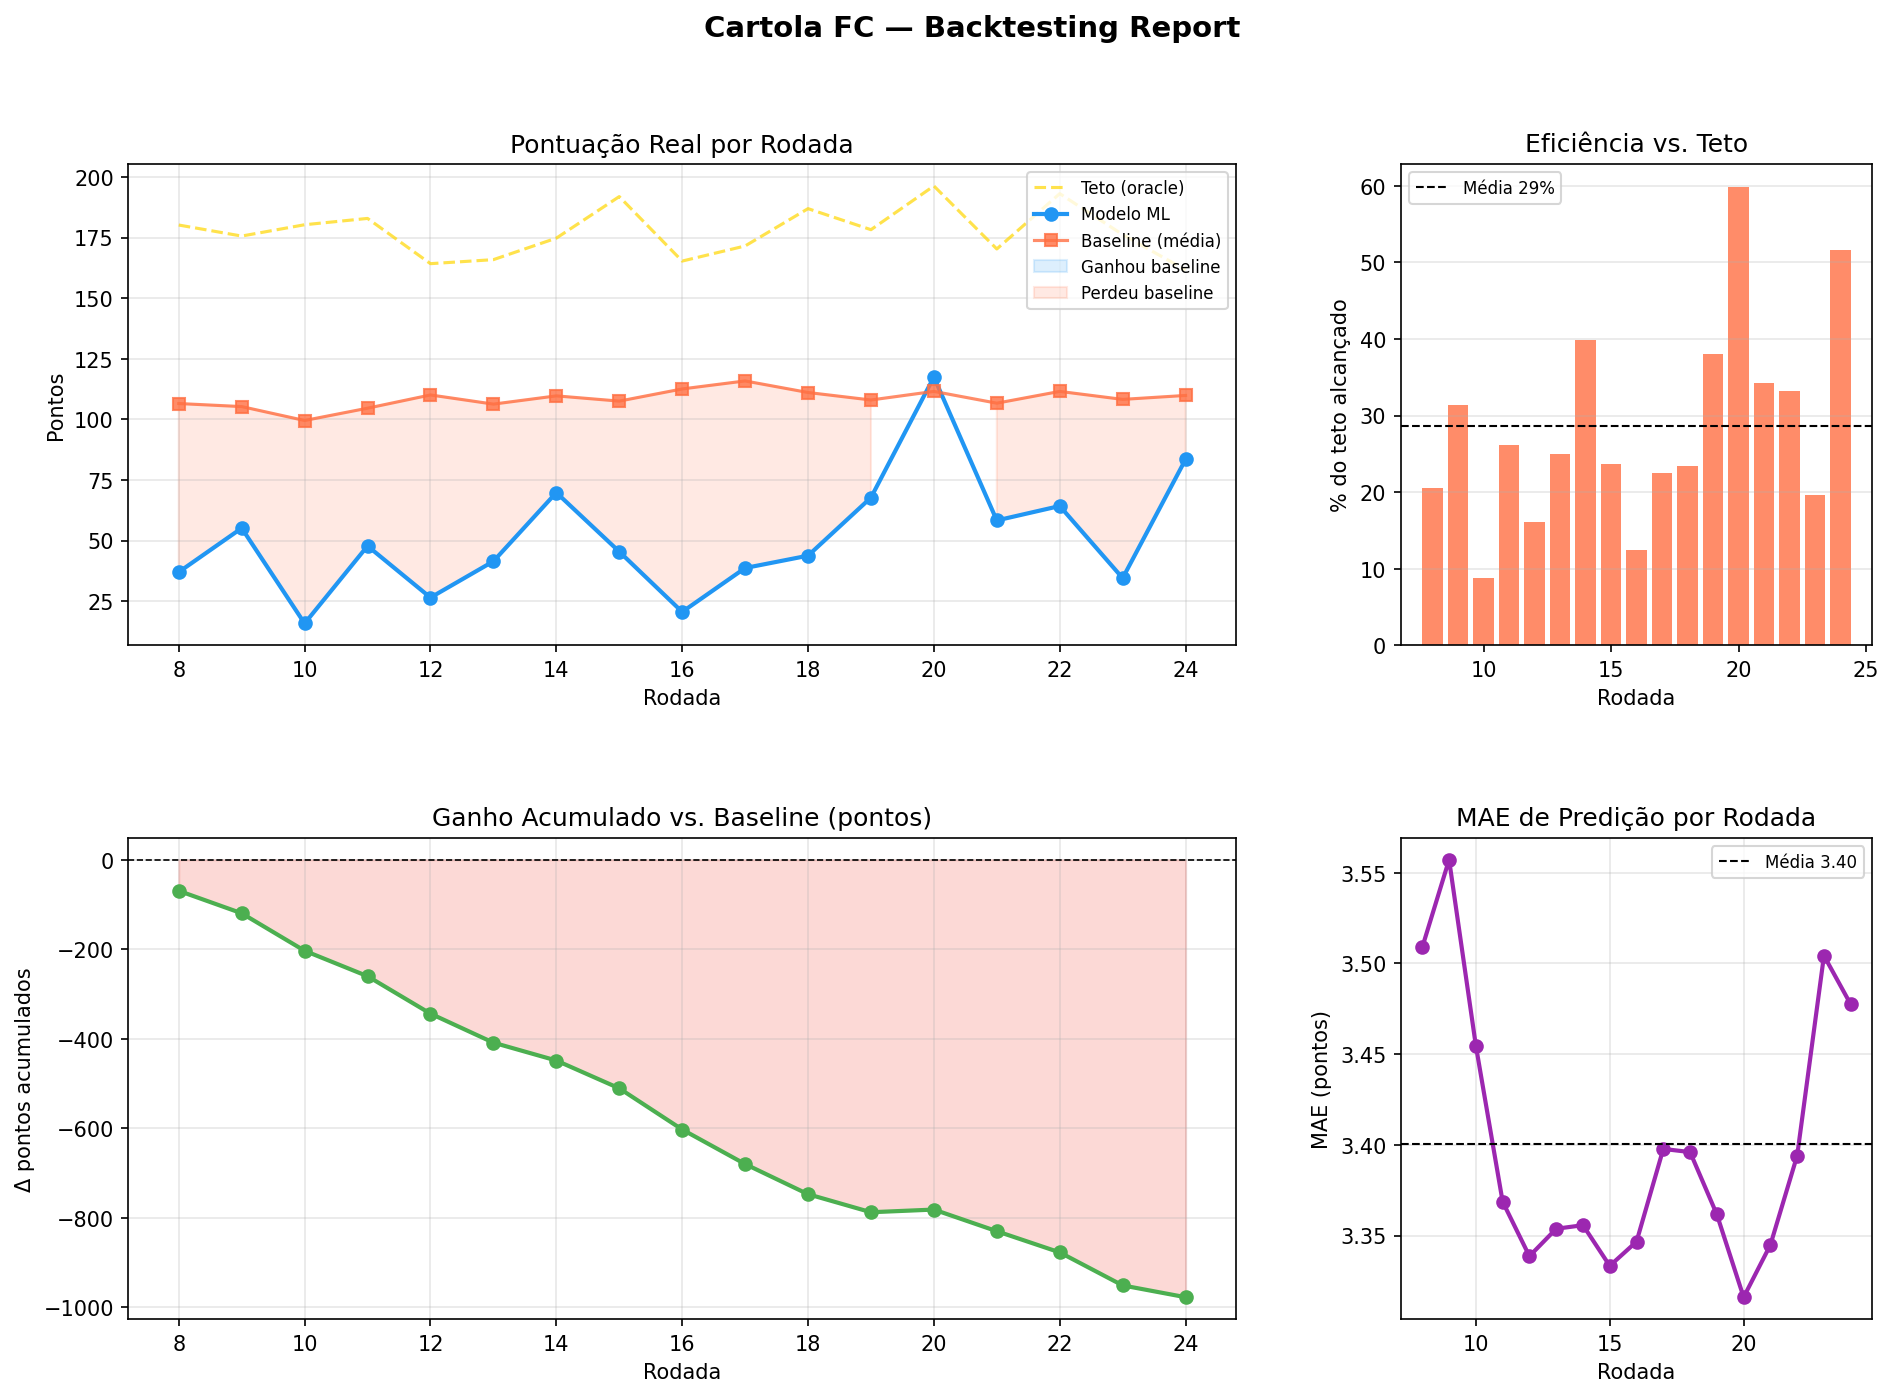
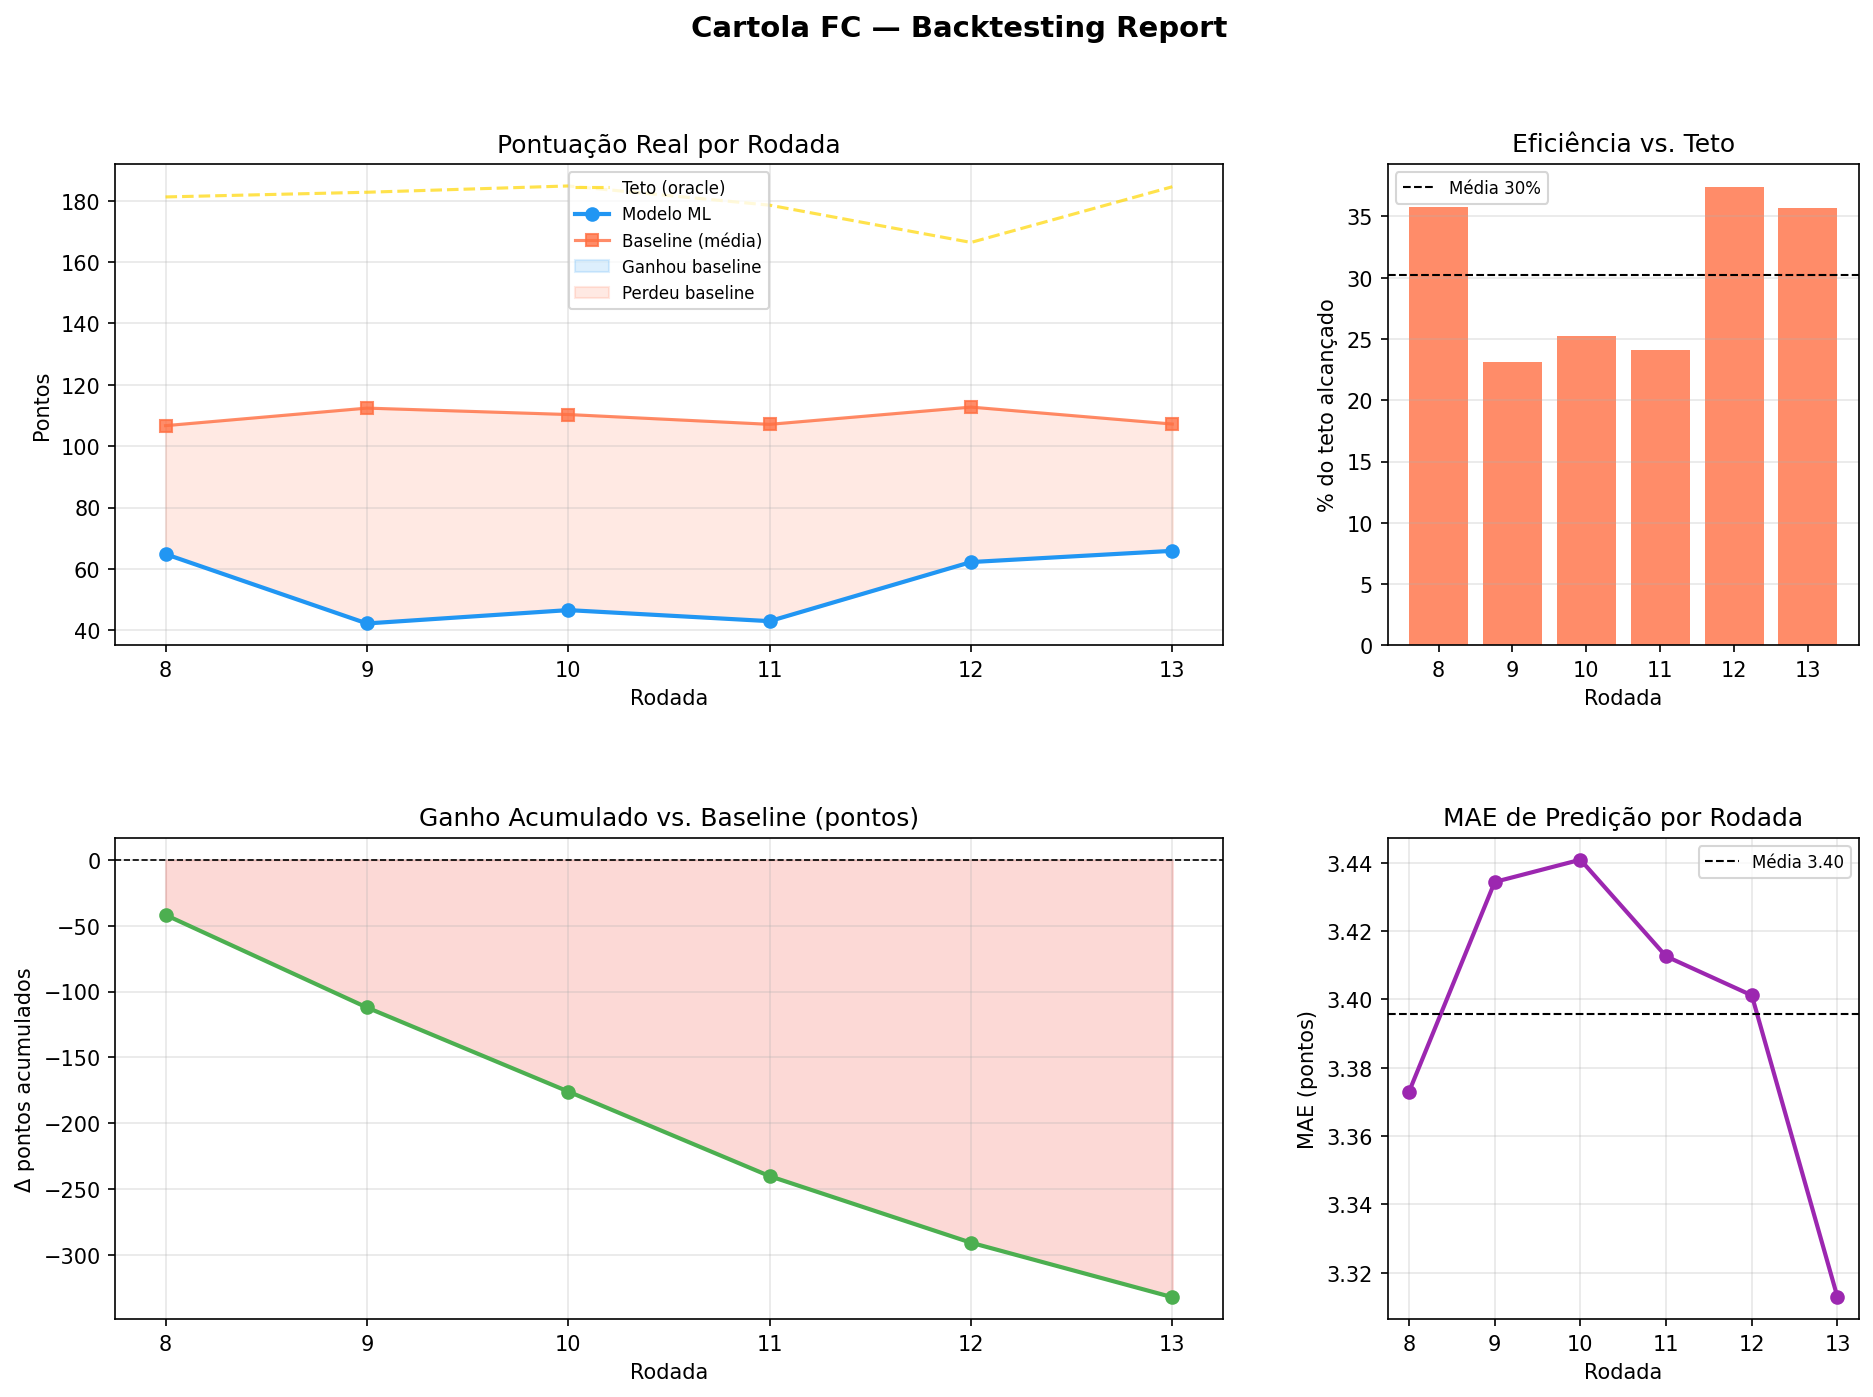
Update backtest to 13 rounds matching actual season length
- gerar_dados_mock.py: N_ROUNDS 25 → 13
- data/backtest_resultados.csv: results for rodadas 8–13
- data/backtest_report.png: updated charts

https://claude.ai/code/session_01ShxEUEUYXW2s6t8odNZzAY

diff --git a/gerar_dados_mock.py b/gerar_dados_mock.py
@@ -12,7 +12,7 @@ rng = np.random.default_rng(42)
 DATA_DIR = Path("data")
 DATA_DIR.mkdir(exist_ok=True)
 
-N_ROUNDS   = 25
+N_ROUNDS   = 13
 N_CLUBS    = 20
 PLAYERS_PER_CLUB = {1: 2, 2: 4, 3: 5, 4: 7, 5: 6, 6: 1}  # pos_id -> count per club
 
